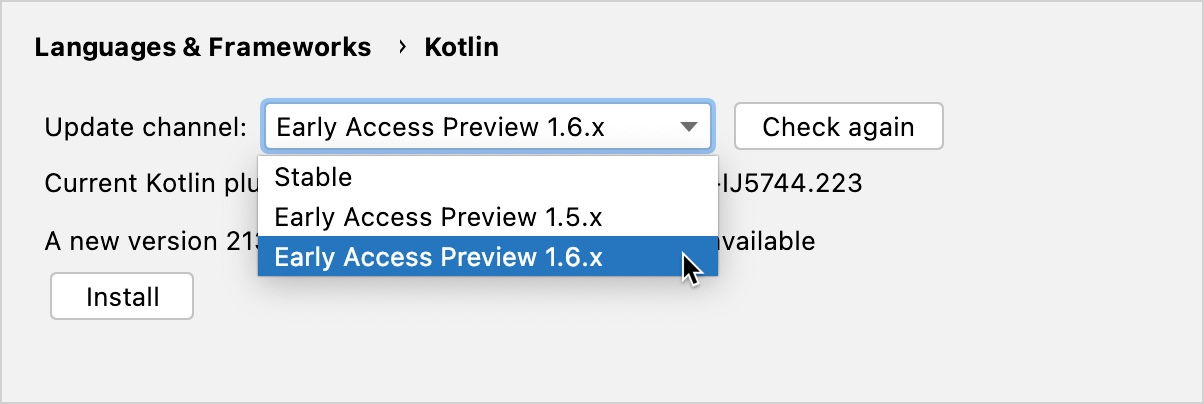
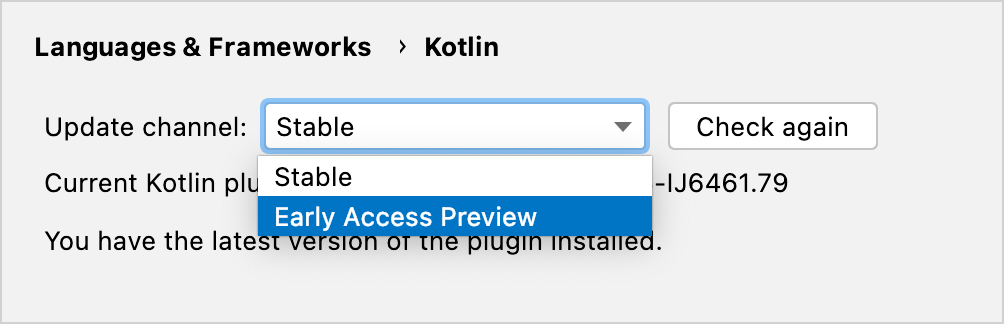
update: single kotlin eap channel

Changed region(s): [[0.0309, 0.216, 0.8954, 0.8025], [0.0309, 0.0926, 0.494, 0.1852], [0.0309, 0.6481, 0.1544, 0.679]]

diff --git a/docs/topics/install-eap-plugin.md b/docs/topics/install-eap-plugin.md
@@ -12,12 +12,13 @@ You can follow these instructions to install [the preview version of the Kotlin 
    ![Select Kotlin Plugin Updates](idea-kotlin-plugin-updates.png)
    {width="600"}
     
-2. In the **Update channel** list, select the **Early Access Preview *X*** channel, where *X* is the latest version of Kotlin.
+2. In the **Update channel** list, select the **Early Access Preview** channel.
     
     ![Select the EAP update channel](idea-kotlin-update-channel.png)
     {width="500"}
 
 3. Click **Check again**. The latest EAP build version appears.
+
     ![Install the EAP build](idea-latest-kotlin-eap.png)
     {width="500"}
 
